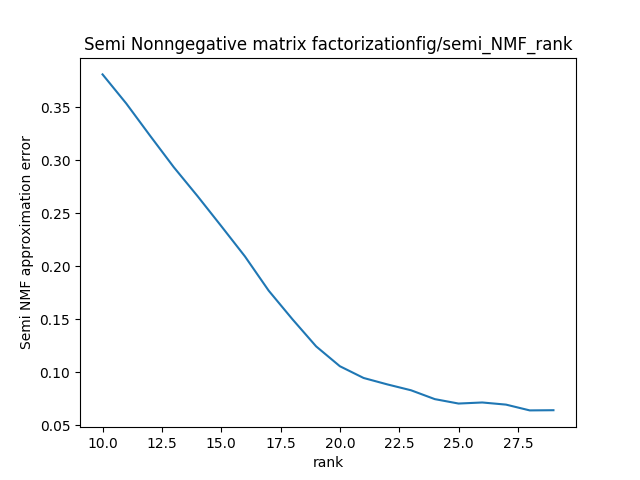
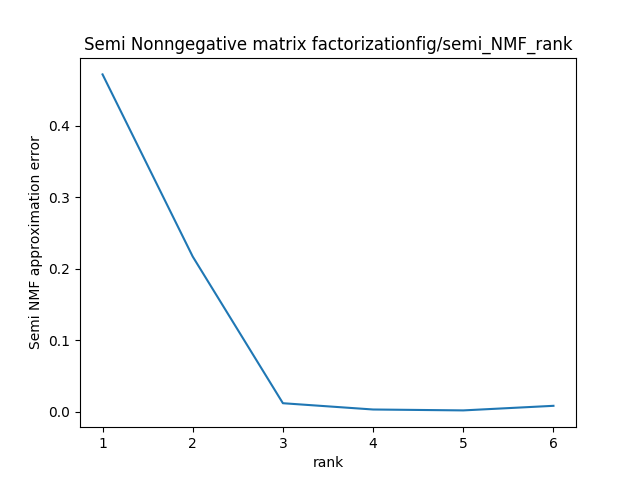
update fig plot func

diff --git a/semi_nmf_case1.py b/semi_nmf_case1.py
@@ -3,17 +3,20 @@ from data_generating import *
 from data_conv import *
 from NMF_functions import *
 from collections import Counter
+
+
 if __name__ == "__main__":
     # set signal parameters
-    num_neuron = 20
-    num_electron = 100
+    np.random.seed(250)
+    num_neuron = 3
+    num_electron = 7
     neuron_shape_parm = neuron_shape_generator(num_neuron)
     # neuron_indicator_matrix = np.array([[1, 0, 0], [0, 1, 0], [0, 0, 1], [1, 1, 0], [1, 0, 1], [0, 1, 1], [1, 1, 1]])
-    neuron_indicator_matrix = neuron_func_connect_matrix_generator(num_electron, num_neuron, p = 0.2)
+    neuron_indicator_matrix = neuron_func_connect_matrix_generator(num_electron, num_neuron, p=0.7)
     print(np.linalg.matrix_rank(neuron_indicator_matrix))
     neuron_firing_rate_parm = firing_rate_generator(num_neuron)
 
-    time_length = 20000
+    time_length = 15000
     time_step = 0.05
     # generating signals
     signal, neuron_spiking_timeline, signal_basis_matrix = multiple_electron_generator(time_step, time_length,
@@ -21,14 +24,16 @@ if __name__ == "__main__":
                                                                                        neuron_shape_parm,
                                                                                        neuron_indicator_matrix)
     # plot signals
-    plot_time_interval = [0,10000]
+    # plot_time_interval = [1960, 2100]
+    plot_time_interval = [0, time_length]
     neuron_shape_plot(neuron_shape_parm, time_step)
     # multiple_electron_plot(signal, time_step, plot_time_interval)
+    multiple_electron_plot_diffcolor(signal_basis_matrix, neuron_indicator_matrix, time_step, plot_time_interval, path = 'fig/electron')
 
     ###################################################################################################################
     # set convolution & undersample parameters
     undersample_window = int(len(np.arange(-np.pi, np.pi, time_step)))
-    undersample_threshold = 0.8
+    undersample_threshold = 0.1
     convolution_window = int(undersample_window)
 
     # apply convolution to signal
@@ -38,23 +43,35 @@ if __name__ == "__main__":
 
     # apply undersample to convolution signal
     undersample_signal_mat, spike_loc_list = undersample_signal_func(convolution_matrix, undersample_window, undersample_threshold)
+
     # visualize convolution and undersample
-    plot_time_interval = [1300,1325]
-    undersample_convolution_plot(signal[0:2, :], spike_loc_list, convolution_matrix, undersample_window, plot_time_interval, time_step, path='fig/undersample plot')
+    undersample_convolution_plot(signal, spike_loc_list, convolution_matrix, undersample_window, plot_time_interval, time_step, path='fig/undersample')
 
     # check convolution/undersample error: the convolution & undersample of the signal should be approximately the
     # dot product of neuron_indicator_matrix and the convolution & undersample of signal_basis_matrix
 
     convolution_basis_matrix = convolution_signal_func(signal_basis_matrix, convolution_kernel2, convolution_window)
     undersample_basis_matrix, basis_spike_loc = undersample_signal_func(convolution_basis_matrix, undersample_window, undersample_threshold)
-
     undersample_error = np.linalg.norm(undersample_signal_mat - np.dot(neuron_indicator_matrix, undersample_basis_matrix))/np.linalg.norm(undersample_signal_mat)
     print('the error cause by undersampling & convolution is:', undersample_error)
 
     ###################################################################################################################
     # apply NMF to the undersample signal matrix
-    rank_list = np.arange(10,30)
+    rank_list = np.arange(1, 7)
     iterations = 1000
     data = undersample_signal_mat.transpose()
     error, W_list, H_list = semi_NMF_vs_rank(data, rank_list, iterations, png_name='fig/semi_NMF_rank')
 
+    optimal_W = W_list[num_neuron-1].transpose()
+    optimal_H = H_list[num_neuron-1].transpose()
+    print(optimal_W.shape)
+    print(optimal_H.shape)
+    # plot semi NMF factorized basis
+
+    NMF_basis_plot(optimal_W, file_name='fig/NMF_basis')
+
+    # plot real basis
+    NMF_basis_plot(undersample_basis_matrix, file_name='fig/real basis')
+
+    print(optimal_H)
+    print(neuron_indicator_matrix)

diff --git a/data_generating.py b/data_generating.py
@@ -1,6 +1,7 @@
 # data generated functions built according to Performance evaluation of PCA-based spike sorting algorithms.pdf
 import numpy as np
 import matplotlib.pyplot as plt
+from matplotlib.pyplot import cm
 
 
 def spike_shape_func(t, amplitude, total_duration, rising_phase, t0):
@@ -27,13 +28,14 @@ def gaussian_noise_generator(noise_mean, noise_deviation, time_length):
     return noise
 
 
-def neuron_shape_plot(neuron_shape_parm, time_step, path = 'fig/neuron shape plot'):
+def neuron_shape_plot(neuron_shape_parm, time_step, path = 'fig/neuronShapePlot'):
     t = np.arange(-np.pi, np.pi, time_step)
     num_neuron = len(neuron_shape_parm['t0'])
+    fig=plt.plot(figsize = (15, 15))
     for i in range(num_neuron):
         shape = spike_shape_func(t, neuron_shape_parm['amplitude'][i], neuron_shape_parm['total_duration'][i],
                                  neuron_shape_parm['rising_phase'][i], neuron_shape_parm['t0'][i] )
-        plt.plot(t,shape, label= str(neuron_shape_parm['amplitude'][i])+' '+str(neuron_shape_parm['total_duration'][i]) +
+        plt.plot(t,shape, label= str(i)+' neuron '+str(neuron_shape_parm['amplitude'][i])+' '+str(neuron_shape_parm['total_duration'][i]) +
                                ' '+str(neuron_shape_parm['rising_phase'][i]) + ' '
                                  + str(neuron_shape_parm['t0'][i]))
 
@@ -102,17 +104,39 @@ def multiple_electron_generator(time_step, time_length, neuron_firing_rate_parm,
     return signal_per_electron, neuron_spiking_timeline, signal_basis_matrix
 
 
-def multiple_electron_plot(signal_per_electron, time_step, plot_time_interval, path='fig/multiple electron plot'):
+def multiple_electron_plot(signal_per_electron, time_step, plot_time_interval, path='fig/multiple electron plot', title='Original Signals'):
     num_electron = signal_per_electron.shape[0]
-    fig, axs = plt.subplots(nrows=num_electron, ncols=1, sharex=True, sharey=True )
+    fig, axs = plt.subplots(nrows=num_electron, ncols=1, sharex=True, sharey=True, figsize=(15, 15))
     time_axis = np.arange(plot_time_interval[0], plot_time_interval[1], time_step)
     for i in range(num_electron):
         axs[i].plot(time_axis, signal_per_electron[i][int(plot_time_interval[0]/time_step): int(plot_time_interval[1]/time_step)])
-        axs[i].set_title('Electron '+str(i)+' detected signals')
-    plt.xlabel('time')
+
+    axs[0].set_title(title + str(num_electron)+' electrons')
+    plt.xlabel('time step')
     plt.savefig(path)
     plt.close()
     return
+
+def multiple_electron_plot_diffcolor(signal_basis_matrix, neuron_indicator_matrix, time_step, plot_time_interval, path):
+
+    num_electron = neuron_indicator_matrix.shape[0]
+    num_neuron = neuron_indicator_matrix.shape[1]
+    time_axis = np.arange(plot_time_interval[0], plot_time_interval[1], time_step)
+    color = cm.rainbow(np.linspace(0, 1, num_neuron))
+
+    fig, axs = plt.subplots(nrows=num_electron, ncols=1, sharex=True, sharey=True, figsize=(15, 15))
+    axs[0].set_title('Signals Detected by Electrons')
+    for i in range(num_electron):
+        for j in range(num_neuron):
+            if neuron_indicator_matrix[i,j]==1:
+                axs[i].plot(time_axis, signal_basis_matrix[j][int(plot_time_interval[0] / time_step):
+                                                              int(plot_time_interval[1] / time_step)], c=color[j], label='neuron'+str(j))
+        axs[i].legend()
+    plt.xlabel('timestep')
+    plt.savefig(path)
+    plt.close()
+    return
+
 
 
 def neuron_func_connect_matrix_generator(num_electron, num_neuron, p):
@@ -161,6 +185,19 @@ def firing_rate_generator(num_neuron, firing_rate_range=[800, 1000], overlap_int
 
 # TODO
 # Non Gaussian dynamical e.g Ornstein–Uhlenbeck noise generator
+def gaussin_noise(signal, noise_level):
+
+
+    return signal_with_noise
+
+def non_gaussian_noise1():
+
+    return
+
+def non_gaussian_noise2():
+
+    return
+
 # neuron shape generator
 # Down-sample signal
 

diff --git a/data_conv.py b/data_conv.py
@@ -101,33 +101,37 @@ def undersample_convolution_plot(signal_mat, spike_loc_list, convolution_signal_
                                  path ='fig/undersample plot'):
     time_axis = np.arange(plot_interval[0], plot_interval[1], time_step)
     num_electron = signal_mat.shape[0]
-
-    fig, axs = plt.subplots(nrows=num_electron, ncols=1, sharex=True, sharey=True)
+    signal_length = signal_mat.shape[1]
+    fig, axs = plt.subplots(nrows=num_electron, ncols=1, sharex=True, sharey=True, figsize=(15, 15))
     # normalize signal for better visualization
     signal_mat = signal_mat/np.max(np.abs(signal_mat))
     convolution_signal_mat = convolution_signal_mat/np.max(np.abs(convolution_signal_mat))
+    start = int(plot_interval[0] / time_step)
+    end = int(plot_interval[1] / time_step)
+
     for i in range(num_electron):
         # plot original signal
-        start = int(plot_interval[0]/time_step)
-        end = int(plot_interval[1]/time_step)
-        axs[i].plot(time_axis, signal_mat[i][start:end], label='signal ')
+
+        axs[i].plot(time_axis, signal_mat[i][start:end], c='lightcoral', label='signal ')
 
         # plot convolution
-        axs[i].plot(time_axis, convolution_signal_mat[i][start: end], label='convolution')
+        axs[i].plot(time_axis, convolution_signal_mat[i][start: end],'--',c='orange', label='convolution')
 
         # plot the point where we think is the spike location
         spike_loc = spike_loc_list[i]
-        for index in spike_loc:
+        index = np.array([item for item in spike_loc if plot_interval[0] <= item*time_step < plot_interval[1]])
+        axs[i].scatter(index * time_step, np.ones(len(index)), marker='o', c='c', label='spike location')
 
-            if index * time_step < plot_interval[1] and index * time_step > plot_interval[0]:
-                axs[i].scatter(index * time_step, 1, marker='o', c='r')
         # plot the undersample grid
-        grid_point = np.arange(start, end, undersample_window)
-        axs[i].scatter(grid_point * time_step, np.zeros(len(grid_point)), marker="|", c= 'g')
+        grid_point = np.arange(0, signal_length, undersample_window)
+        grid_point = np.array([point for point in grid_point if end >= point >= start])
+        axs[i].scatter(grid_point * time_step, np.zeros(len(grid_point)), marker="*", c= 'g', label='undersample grid')
 
-        axs[i].set_title('Undersample of electron ' + str(i))
+    axs[0].set_title('Undersample of signals by ' + str(num_electron)+' electrons')
+    axs[0].legend(loc=2)
+    plt.xlabel('time step')
+    plt.tight_layout(pad=0.4, w_pad=0.5, h_pad=1.0)
 
-    plt.legend()
     plt.savefig(path)
     plt.close()
     return

diff --git a/NMF_functions.py b/NMF_functions.py
@@ -13,8 +13,6 @@ def semi_NMF_vs_rank(matrix, rank_list, iterations, png_name=None):
         snmf_mdl.factorize(niter=iterations)
         W = snmf_mdl.W
         H = snmf_mdl.H
-        print(W.shape, 'W')
-        print(H.shape, 'H')
         error_norm = np.linalg.norm(matrix - np.dot(W,H))
         error_norm = error_norm / np.linalg.norm(matrix)
         error.append(error_norm)
@@ -35,12 +33,14 @@ def semi_NMF_vs_rank(matrix, rank_list, iterations, png_name=None):
 
 
 def NMF_basis_plot(W, file_name ='fig/NMF basis plot'):
-    W = W.transpose()
+    # W = W.transpose()
     num_neuron = W.shape[0]
-    fig, axs = plt.subplots(nrows=num_neuron, ncols=1, sharex=True, sharey=True)
+    fig, axs = plt.subplots(nrows=num_neuron, ncols=1, sharex=True, sharey=True, figsize=(10, 10))
     for i in range(num_neuron):
         axs[i].plot(W[i])
-        axs[i].set_title('Neuron ' + str(i) + ' signals')
+    plt.xlabel('time step')
+    axs[0].set_title('Semi NMF Basis Matrix F Column Plot')
     plt.savefig(file_name)
+    plt.close()
     return
 
